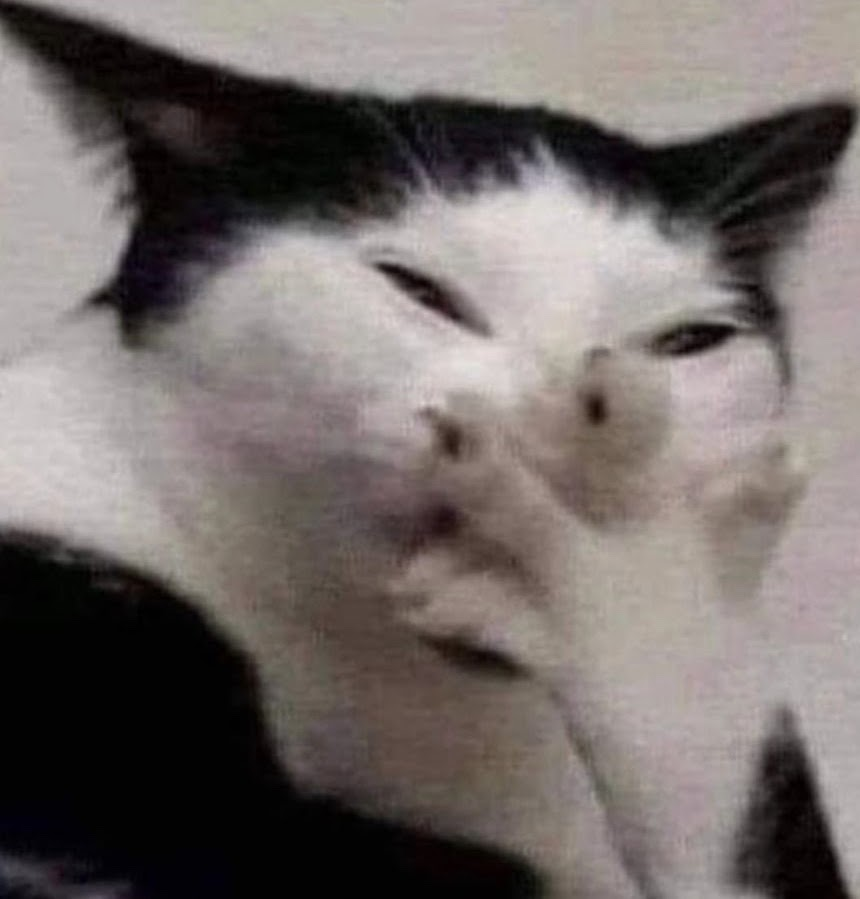
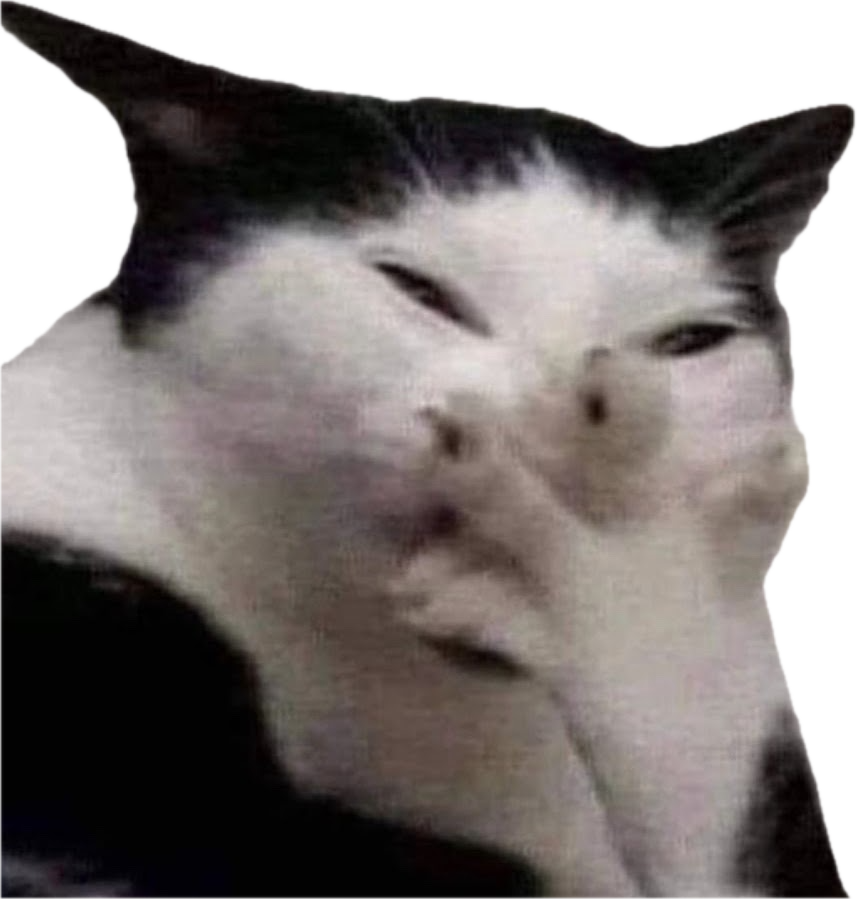
add the iconic miss trilly and transparency to some emojis

Changed region(s): [[0.0, 0.0, 1.0, 1.0]]

diff --git a/src/lib/data/emojis.ts b/src/lib/data/emojis.ts
@@ -28,23 +28,24 @@ import catHaha from '$lib/assets/cat-haha.png';
 import catGoggles from '$lib/assets/cat-goggles.png';
 import catHehe from '$lib/assets/cat-hehe.png';
 import catFabulous from '$lib/assets/cat-fabulous.jpg';
-import bicepCurl from '$lib/assets/bicep-curl.jpg';
-import gettingSwole from '$lib/assets/getting-swole.jpg';
-import notAmused from '$lib/assets/not-amused.jpg';
+import bicepCurl from '$lib/assets/bicep-curl.png';
+import gettingSwole from '$lib/assets/getting-swole.png';
+import notAmused from '$lib/assets/not-amused.png';
 import uWotM8 from '$lib/assets/u-wot-m8.jpg';
-import catAdmire from '$lib/assets/cat-admire.jpg';
+import catAdmire from '$lib/assets/cat-admire.png';
 import catWFH from '$lib/assets/cat-WFH.jpg';
-import chefCat from '$lib/assets/chef-cat.jpeg';
-import catStare from '$lib/assets/cat-stare.jpg';
-import catHeck from '$lib/assets/cat-heck.jpg';
-import catAngry from '$lib/assets/cat-angry.jpg';
+import chefCat from '$lib/assets/chef-cat.png';
+import catStare from '$lib/assets/cat-stare.png';
+import catHeck from '$lib/assets/cat-heck.png';
+import catAngry from '$lib/assets/cat-angry.png';
 import catCozy from '$lib/assets/cat-cozy.jpg';
-import catMechanic from '$lib/assets/cat-mechanic.jpg';
-import sousChef from '$lib/assets/sous-chef.jpg';
+import catMechanic from '$lib/assets/cat-mechanic.png';
+import sousChef from '$lib/assets/sous-chef.png';
 import catInspect from '$lib/assets/cat-inspect.jpg';
-import catObserve from '$lib/assets/cat-observe.jpg';
+import catObserve from '$lib/assets/cat-observe.png';
 import catShook from '$lib/assets/cat-shook.jpg';
 import senorCheeto from '$lib/assets/senor-cheeto.jpg';
+import missTrilly from '$lib/assets/miss-trilly.png';
 
 export type Emoji = {
 	name: string;
@@ -288,5 +289,11 @@ export const emojis: Emoji[] = [
 		name: 'senor-cheeto',
 		alt: 'a large cat with cheeto dust on its paws',
 		src: senorCheeto
+	}
+	,
+	{
+		name: 'miss-trilly',
+		alt: 'a cute sassy italian cat with an angry/shocked face',
+		src: missTrilly
 	},
 ];
